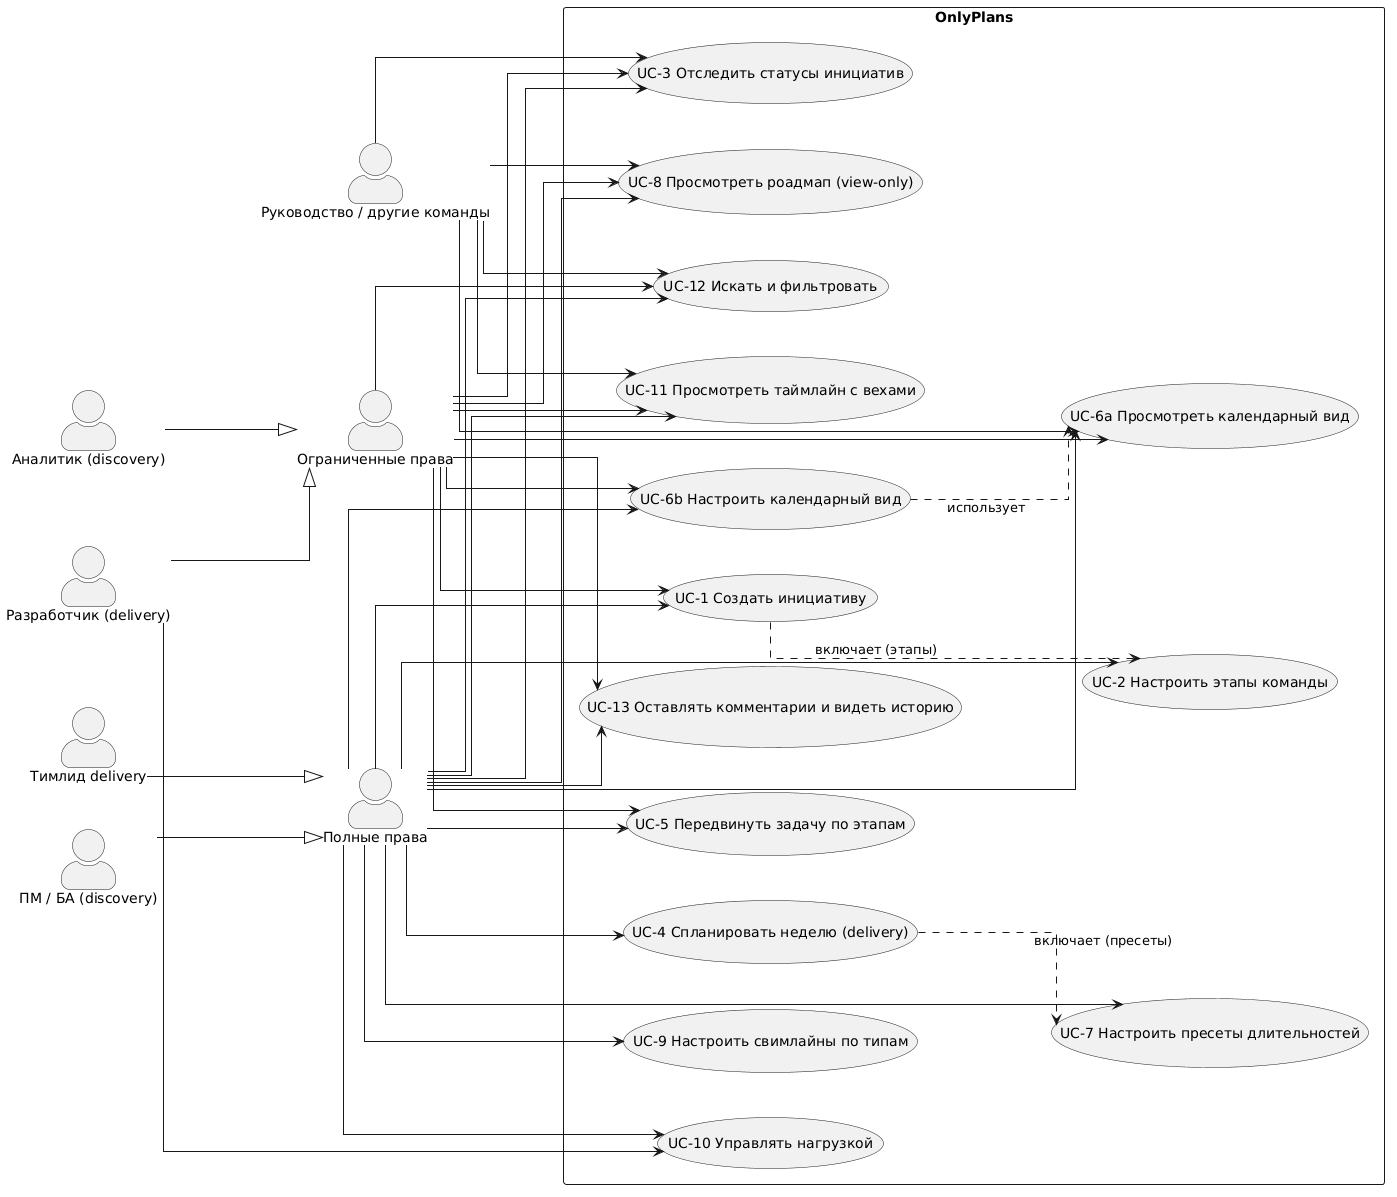
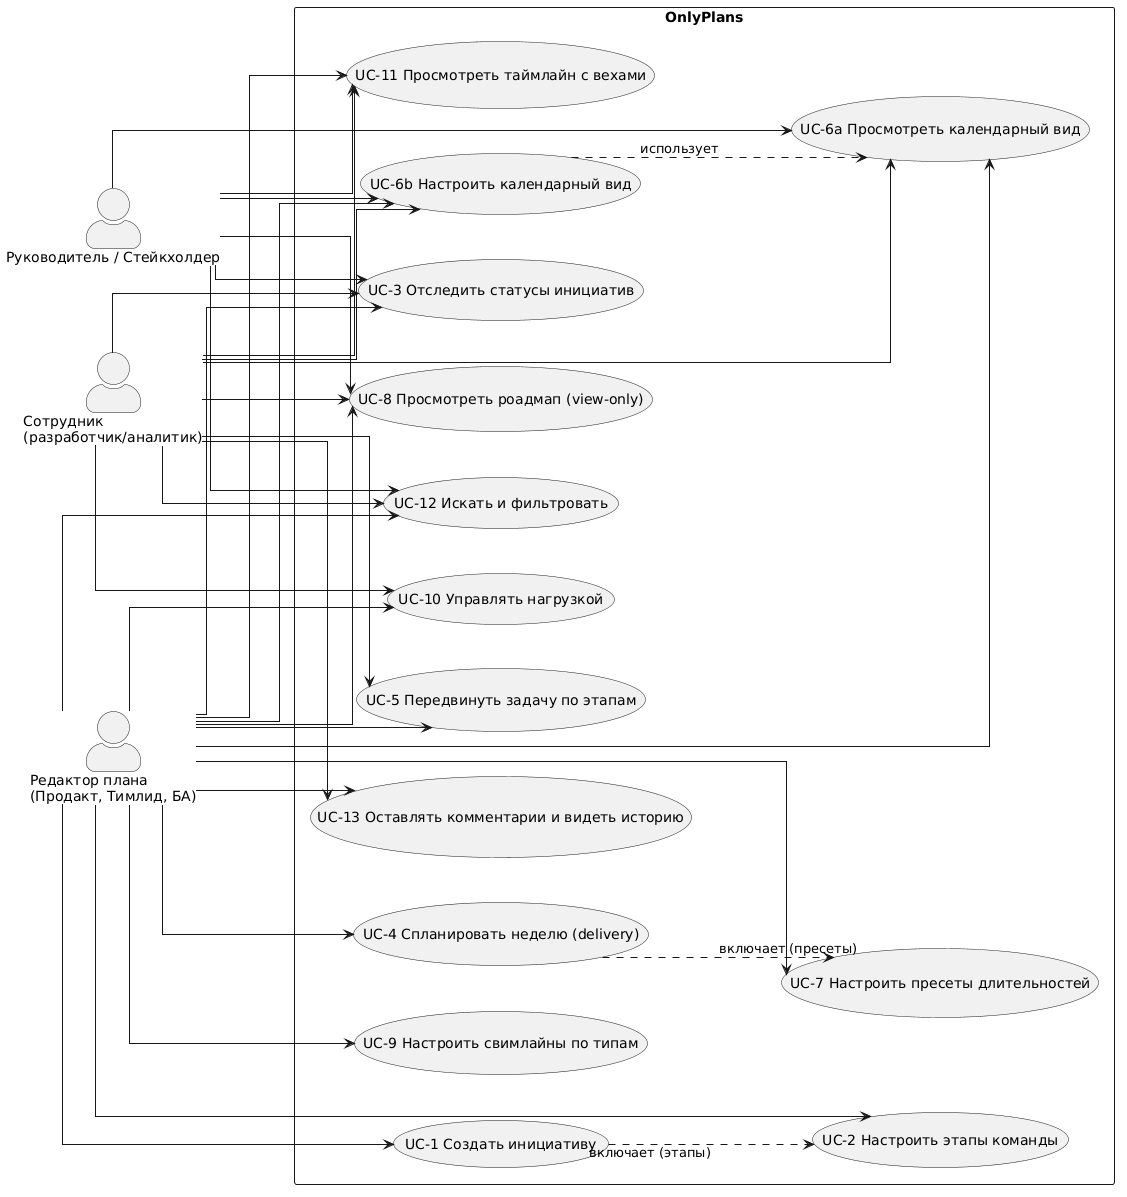
Роли переработаны (Редактор плана/Сотрудник/Руководитель-Стейкхолдер) в БА и диаграмме

diff --git a/docs/ba/03-use-cases.md b/docs/ba/03-use-cases.md
@@ -5,17 +5,17 @@
 
 ## Акторы
 
-- **DeliveryLead** — тимлид команды разработки (delivery); роль в оргструктуре — **IT teamlead**.
-- **Developer** — разработчик (delivery); роли — **Android / iOS / Java Developer, Разработчик,
-  QA Инженер, Системный аналитик** (исполнители).
-- **DiscoveryPM** — discovery-специалист: ПМ / БА; роли — **Product manager, Бизнес-аналитик**.
-- **DiscoveryAnalyst** — discovery-специалист: **Продуктовый аналитик**.
-- **Viewer** — руководство стримов / другие команды (view-only); роль — **Product Lead** / руководство.
+- **Редактор плана** (в юзкейсах — DeliveryLead, DiscoveryPM): **Продакт (Product manager),
+  Тимлид (IT teamlead), БА (Бизнес-аналитик)** — создают и редактируют план.
+- **Сотрудник** (Developer, DiscoveryAnalyst): Android/iOS/Java Developer, Разработчик, QA Инженер,
+  Системный аналитик, Продуктовый аналитик — **смотрит свои работы** и обновляет статус своих задач.
+- **Руководитель / Стейкхолдер** (Viewer): Product Lead, руководство стримов, другие команды —
+  **view-only** (сроки фич, владельцы, приоритеты).
 
 ---
 
 ## UC-1 — Создать инициативу
-**Акторы:** DeliveryLead, Developer, DiscoveryPM, DiscoveryAnalyst. **Связь:** US-1, US-2.
+**Акторы:** Редактор плана. **Связь:** US-1, US-2.
 
 **Основной поток:**
 1. Актор создаёт новую инициативу.
@@ -37,7 +37,7 @@
 ---
 
 ## UC-2 — Настроить этапы команды
-**Акторы:** DeliveryLead, DiscoveryPM. **Связь:** US-2, US-5.
+**Акторы:** Редактор плана. **Связь:** US-2, US-5.
 
 **Основной поток:**
 1. Актор открывает настройки этапов своей команды.
@@ -53,7 +53,7 @@
 ---
 
 ## UC-3 — Отследить статусы инициатив
-**Акторы:** все (включая Viewer). **Связь:** US-3.
+**Акторы:** все роли. **Связь:** US-3.
 
 **Основной поток:**
 1. Актор открывает список инициатив.
@@ -68,7 +68,7 @@
 ---
 
 ## UC-4 — Спланировать неделю (delivery)
-**Акторы:** DeliveryLead, DiscoveryPM. **Связь:** US-4, US-10, US-11.
+**Акторы:** Редактор плана. **Связь:** US-4, US-10, US-11.
 
 **Основной поток:**
 1. Актор открывает недельный план.
@@ -86,7 +86,7 @@
 ---
 
 ## UC-5 — Передвинуть задачу по этапам
-**Акторы:** DeliveryLead, Developer, DiscoveryPM, DiscoveryAnalyst. **Связь:** US-7.
+**Акторы:** Редактор плана, Сотрудник (свои). **Связь:** US-7.
 
 **Основной поток:**
 1. Актор открывает задачу.
@@ -101,7 +101,7 @@
 ---
 
 ## UC-6a — Просмотреть календарный вид
-**Акторы:** все (включая Viewer). **Связь:** US-8.
+**Акторы:** все роли. **Связь:** US-8.
 
 **Основной поток:**
 1. Актор открывает календарный вид.
@@ -116,7 +116,7 @@
 ---
 
 ## UC-6b — Настроить календарный вид
-**Акторы:** DeliveryLead, Developer, DiscoveryPM, DiscoveryAnalyst. **Связь:** US-8, US-9.
+**Акторы:** Редактор плана, Сотрудник. **Связь:** US-8, US-9.
 
 **Основной поток:**
 1. Актор открывает настройки календарного вида.
@@ -131,7 +131,7 @@
 ---
 
 ## UC-7 — Настроить пресеты длительностей
-**Акторы:** DeliveryLead, DiscoveryPM. **Связь:** US-10.
+**Акторы:** Редактор плана. **Связь:** US-10.
 
 **Основной поток:**
 1. Актор открывает пресеты.
@@ -160,7 +160,7 @@
 ---
 
 ## UC-9 — Настроить свимлайны по типам инициатив
-**Акторы:** DeliveryLead, DiscoveryPM. **Связь:** US-16.
+**Акторы:** Редактор плана. **Связь:** US-16.
 
 **Основной поток:**
 1. Актор открывает настройки свимлайнов.
@@ -175,7 +175,7 @@
 ---
 
 ## UC-10 — Управлять нагрузкой исполнителя
-**Акторы:** DeliveryLead, DiscoveryPM, Developer (своя нагрузка). **Связь:** US-19.
+**Акторы:** Редактор плана, Сотрудник (своя нагрузка). **Связь:** US-19.
 
 **Основной поток:**
 1. Актор открывает недельный план/нагрузку.
@@ -192,7 +192,7 @@
 ---
 
 ## UC-11 — Просмотреть таймлайн с вехами
-**Акторы:** все (включая Viewer). **Связь:** US-20.
+**Акторы:** все роли. **Связь:** US-20.
 
 **Основной поток:**
 1. Актор выбирает таймлайн-вид (одна горизонтальная линия времени).
@@ -207,7 +207,7 @@
 ---
 
 ## UC-12 — Искать и фильтровать инициативы
-**Акторы:** все (включая Viewer). **Связь:** US-22.
+**Акторы:** все роли. **Связь:** US-22.
 
 **Основной поток:**
 1. Актор открывает список инициатив.
@@ -222,7 +222,7 @@
 ---
 
 ## UC-13 — Оставлять комментарии и видеть историю
-**Акторы:** DeliveryLead, Developer, DiscoveryPM, DiscoveryAnalyst. **Связь:** US-17.
+**Акторы:** Редактор плана, Сотрудник (свои). **Связь:** US-17.
 
 **Основной поток:**
 1. Актор открывает инициативу/задачу.
@@ -262,24 +262,25 @@
 
 ## Матрица «роль → юзкейсы»
 
-| Юзкейс | Тимлид delivery | ПМ/БА | Аналитик | Разработчик | Руководство |
-|---|---|---|---|---|---|
-| UC-1 Создать инициативу | ✓ | ✓ | ✓ | ✓ | – |
-| UC-2 Настроить этапы | ✓ | ✓ | – | – | – |
-| UC-3 Отследить статусы | ✓ | ✓ | ✓ | ✓ | ✓ |
-| UC-4 Спланировать неделю | ✓ | ✓ | – | – | – |
-| UC-5 Передвинуть задачу | ✓ | ✓ | ✓ | ✓ | – |
-| UC-6a Просмотреть календарь | ✓ | ✓ | ✓ | ✓ | ✓ |
-| UC-6b Настроить календарный вид | ✓ | ✓ | ✓ | ✓ | – |
-| UC-7 Настроить пресеты | ✓ | ✓ | – | – | – |
-| UC-8 Просмотр роадмапа (view) | ✓ | ✓ | ✓ | ✓ | ✓ |
-| UC-9 Настроить свимлайны | ✓ | ✓ | – | – | – |
-| UC-10 Управление нагрузкой | ✓ | ✓ | – | ✓ (своя) | – |
-| UC-11 Таймлайн с вехами | ✓ | ✓ | ✓ | ✓ | ✓ |
-| UC-12 Поиск и фильтры | ✓ | ✓ | ✓ | ✓ | ✓ |
-| UC-13 Комментарии и история | ✓ | ✓ | ✓ | ✓ | – |
+| Юзкейс | Редактор плана | Сотрудник | Руководитель/Стейкхолдер |
+|---|---|---|---|
+| UC-1 Создать инициативу | ✓ | – | – |
+| UC-2 Настроить этапы | ✓ | – | – |
+| UC-3 Отследить статусы | ✓ | ✓ (свои) | ✓ |
+| UC-4 Спланировать неделю | ✓ | – | – |
+| UC-5 Передвинуть задачу | ✓ | ✓ (свои) | – |
+| UC-6a Просмотреть календарь | ✓ | ✓ | ✓ |
+| UC-6b Настроить календарный вид | ✓ | ✓ | ✓ |
+| UC-7 Настроить пресеты | ✓ | – | – |
+| UC-8 Просмотреть роадмап | ✓ | ✓ | ✓ |
+| UC-9 Настроить свимлайны | ✓ | – | – |
+| UC-10 Управлять нагрузкой | ✓ | ✓ (своя) | – |
+| UC-11 Просмотреть таймлайн | ✓ | ✓ | ✓ |
+| UC-12 Искать и фильтровать | ✓ | ✓ | ✓ |
+| UC-13 Оставлять комментарии и видеть историю | ✓ | ✓ (свои) | – |
 
-> Полные права (все UCs): Тимлид delivery, ПМ/БА.
-> Ограниченные права — Аналитик и Разработчик (UC-1, UC-3, UC-5, UC-6a, UC-6b, UC-8, UC-11,
-> UC-12, UC-13); Разработчик дополнительно UC-10 «своя нагрузка».
-> View-only (UC-3, UC-6a, UC-8, UC-11, UC-12): Руководство.
+> **Редактор плана** (Продакт, Тимлид, БА) — все юзкейсы (полный CRUD).
+> **Сотрудник** (разработчик/аналитик) — просмотр своих работ: UC-3, UC-5, UC-6a, UC-6b, UC-8,
+> UC-10 (своя нагрузка), UC-11, UC-12, UC-13 (свои комментарии) + статус своих задач.
+> **Руководитель / Стейкхолдер** (Product Lead и др.) — view-only: UC-3, UC-6a, UC-6b, UC-8,
+> UC-11, UC-12 (сроки, владельцы, приоритеты).

diff --git a/docs/ba/02-user-stories.md b/docs/ba/02-user-stories.md
@@ -5,18 +5,14 @@
 
 ## Роли (акторы)
 
-- **Тимлид delivery** (в оргструктуре — IT teamlead): планирует неделю, настраивает
-  этапы/пресеты/swimlanes, назначает задачи и следит за нагрузкой. Полные права.
-- **ПМ / БА** (Product manager, Бизнес-аналитик): на стыке discovery и delivery — приносят идеи,
-  формируют/обогащают гипотезы, планируют неделю, настраивают
-  этапы/пресеты/swimlanes, назначают задачи, следят за нагрузкой, отслеживают разработку в delivery-команде, привязывают к OKR. Полные права.
-- **Аналитик (discovery)** (Продуктовый аналитик): создаёт и двигает инициативы, видит
-  статусы/календарь. Ограниченные права.
-- **Разработчик (delivery)** (Android / iOS / Java Developer, Разработчик, QA Инженер,
-  Системный аналитик): видит свои задачи, двигает по этапам, видит свою нагрузку.
-  Ограниченные права.
-- **Руководство / другие команды** (Product Lead / руководство стримов): view-only просмотр
-  роадмапов.
+- **Редактор плана** (Product manager, Тимлид / IT teamlead, Бизнес-аналитик): **создают и
+  редактируют план** — инициативы, этапы, роли/команды, сроки, ответственные, пресеты, swimlanes,
+  связи, OKR, комментарии. Полные права (CRUD).
+- **Сотрудник** (Android/iOS/Java Developer, Разработчик, QA Инженер, Системный аналитик,
+  Продуктовый аналитик): **смотрит свои работы** — свои задачи/инициативы, их статусы и сроки,
+  свою нагрузку; может обновлять статус своих задач.
+- **Руководитель / Стейкхолдер** (Product Lead, руководство стримов, другие команды): **view-only**
+  — видит сроки фич, владельцев и приоритеты.
 
 ---
 
@@ -221,36 +217,37 @@
 
 ## CRUD-матрица по ролям
 
-Операции CRUD (Create/Read/Update/Delete) по объектам роадмапа и ролям команд.
-Роли: **Полные** — тимлид delivery (IT teamlead), ПМ/БА (Product manager, Бизнес-аналитик);
-**Ограниченные** — аналитик (Продуктовый аналитик), разработчик (Android/iOS/Java Developer,
-Разработчик, QA, Системный аналитик); **View-only** — руководство (Product Lead / стримы).
-✅ — может; – — не может.
+Операции CRUD (Create/Read/Update/Delete) по объектам роадмапа и ролям.
+Роли: **Редактор плана** — Продакт (Product manager), Тимлид (IT teamlead), БА (Бизнес-аналитик);
+**Сотрудник** — Android/iOS/Java Developer, Разработчик, QA, Системный аналитик, Продуктовый
+аналитик (смотрит свои работы); **Руководитель / Стейкхолдер** — Product Lead, руководство,
+другие команды (view-only). ✅ — может; – — не может.
 
-| Объект | Операция | Полные | Ограниченные | View-only |
+| Объект | Операция | Редактор плана | Сотрудник | Руководитель/Стейкхолдер |
 |---|---|---|---|---|
-| Инициатива / задача | Create | ✅ | ✅ | – |
-| | Read | ✅ | ✅ | ✅ |
-| | Update (поля, статус) | ✅ | ✅ (своя/участие) | – |
+| Инициатива / задача | Create | ✅ | – | – |
+| | Read | ✅ | ✅ (свои) | ✅ |
+| | Update (поля) | ✅ | – | – |
+| | Update (статус) | ✅ | ✅ (свои) | – |
 | | Delete | ✅ | – | – |
 | Этапы | Create / Update / Delete | ✅ | – | – |
 | | Read | ✅ | ✅ | ✅ |
 | Роли / команды | Create / Update / Delete | ✅ | – | – |
 | | Read | ✅ | ✅ | ✅ |
-| Комментарии | Create | ✅ | ✅ | – |
+| Комментарии | Create | ✅ | ✅ (свои) | – |
 | | Read | ✅ | ✅ | ✅ |
-| | Update / Delete (свой) | ✅ | ✅ (свой) | – |
 | Связи (зависимости) | Create / Update / Delete | ✅ | – | – |
 | | Read | ✅ | ✅ | ✅ |
 | Пресеты длительностей | Create / Update / Delete | ✅ | – | – |
 | | Read | ✅ | ✅ | ✅ |
 | Swimlanes / типы | Create / Update / Delete | ✅ | – | – |
 | | Read | ✅ | ✅ | ✅ |
-| OKR-поле / Jira-ссылка | Create / Update | ✅ | ✅ (своя инициатива) | – |
+| OKR-поле / Jira-ссылка | Create / Update | ✅ | – | – |
 | | Read | ✅ | ✅ | ✅ |
 
-> Модель прав «владелец + участник + view-only»: полные = владелец/админ; ограниченные = участники;
-> view-only = только чтение. Delete для большинства объектов — только полные права (владелец).
+> Модель: Редактор плана — полный CRUD; Сотрудник — просмотр своих работ и обновление статуса
+> своих задач; Руководитель/Стейкхолдер — только чтение (сроки, владельцы, приоритеты).
+> Delete для большинства объектов — только редактор плана.
 
 ---
 
